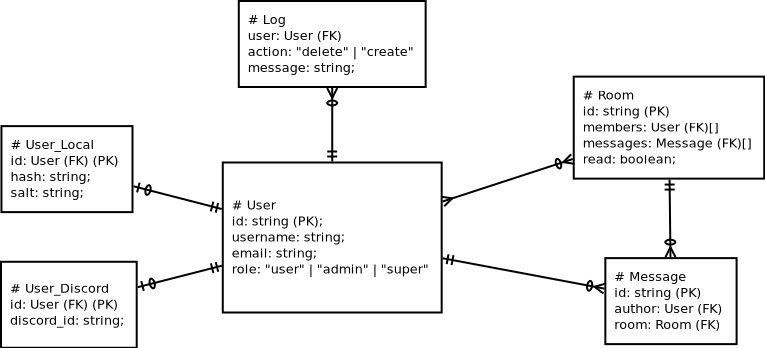
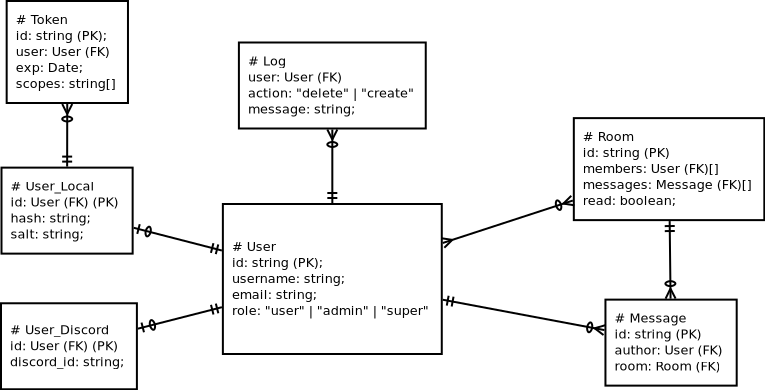
Add logs

diff --git a/src/routes/api/users/@me.ts b/src/routes/api/users/@me.ts
@@ -1,7 +1,7 @@
 import type { Route } from "../../../middleware/types.d.ts";
 import { restrict } from "../../../middleware/auth.ts";
 import { log, Status } from "../../../deps.ts";
-import { Token, type User, UserLocal } from "../../../models/mod.ts";
+import { Log, Token, type User, UserLocal } from "../../../models/mod.ts";
 
 export default {
 	async GET(ctx, next) {
@@ -22,6 +22,16 @@ export default {
 		await UserLocal.where("userId", "=", user.id).delete();
 		await Token.where("userId", "=", user.id).delete();
 		await user.delete();
+
+		// How do you save a log of someone who is deleted?
+		try {
+			await Log.create({
+				userId: user.id,
+				action: "DELETE",
+			});
+		} catch (err) {
+			log.debug(err);
+		}
 
 		ctx.response.status = Status.NoContent;
 	},

diff --git a/src/models/database.ts b/src/models/database.ts
@@ -1,7 +1,7 @@
 import { Database, log, Relationships, SQLite3Connector } from "../deps.ts";
 import { config } from "../config.ts";
 import { generateSalt, hashPassword } from "../utils/auth.ts";
-import { Token, User, UserDiscord, UserLocal } from "./mod.ts";
+import { Log, Token, User, UserDiscord, UserLocal } from "./mod.ts";
 
 let connector;
 
@@ -18,6 +18,7 @@ export const db = new Database(connector);
 Relationships.belongsTo(UserLocal, User);
 Relationships.belongsTo(UserDiscord, User);
 Relationships.belongsTo(Token, User);
+Relationships.belongsTo(Log, User);
 
 try {
 	db.link([
@@ -25,6 +26,7 @@ try {
 		UserLocal,
 		UserDiscord,
 		Token,
+		Log,
 	]);
 	await db.sync({ drop: true });
 } catch (err) {

diff --git a/src/models/log.ts b/src/models/log.ts
@@ -1,0 +1,28 @@
+import { DataTypes, Model } from "../deps.ts";
+import { User } from "./mod.ts";
+
+export class Log extends Model {
+	static table = "logs";
+	static timestamps = true;
+
+	id!: number;
+	message!: string;
+	action!: "DELETE" | "ADD";
+	userId!: number;
+
+	static fields = {
+		id: { primaryKey: true, autoIncrement: true, type: DataTypes.INTEGER },
+
+		message: DataTypes.STRING,
+
+		action: DataTypes.enum(["DELETE", "ADD"]),
+	};
+
+	static user(): Promise<User> {
+		return this.hasOne(User) as Promise<User>;
+	}
+
+	static defaults = {
+		message: "No message provided.",
+	};
+}

diff --git a/src/routes/api/auth/register.ts b/src/routes/api/auth/register.ts
@@ -1,6 +1,6 @@
 import { log, Status } from "../../../deps.ts";
 import type { Route } from "../../../middleware/types.d.ts";
-import { User, UserLocal } from "../../../models/mod.ts";
+import { Log, User, UserLocal } from "../../../models/mod.ts";
 import { generateSalt, hashPassword } from "../../../utils/auth.ts";
 
 export default {
@@ -42,6 +42,11 @@ export default {
 			salt,
 			hash: await hashPassword(body.password, salt),
 			userId: user.id,
+		});
+
+		await Log.create({
+			userId: user.id,
+			action: "ADD",
 		});
 
 		ctx.response.status = Status.NoContent;

diff --git a/src/models/mod.ts b/src/models/mod.ts
@@ -2,5 +2,6 @@ export { User } from "./user.ts";
 export { UserLocal } from "./user_local.ts";
 export { UserDiscord } from "./user_discord.ts";
 export { Token } from "./token.ts";
+export { Log } from "./log.ts";
 
 export { db } from "./database.ts";
